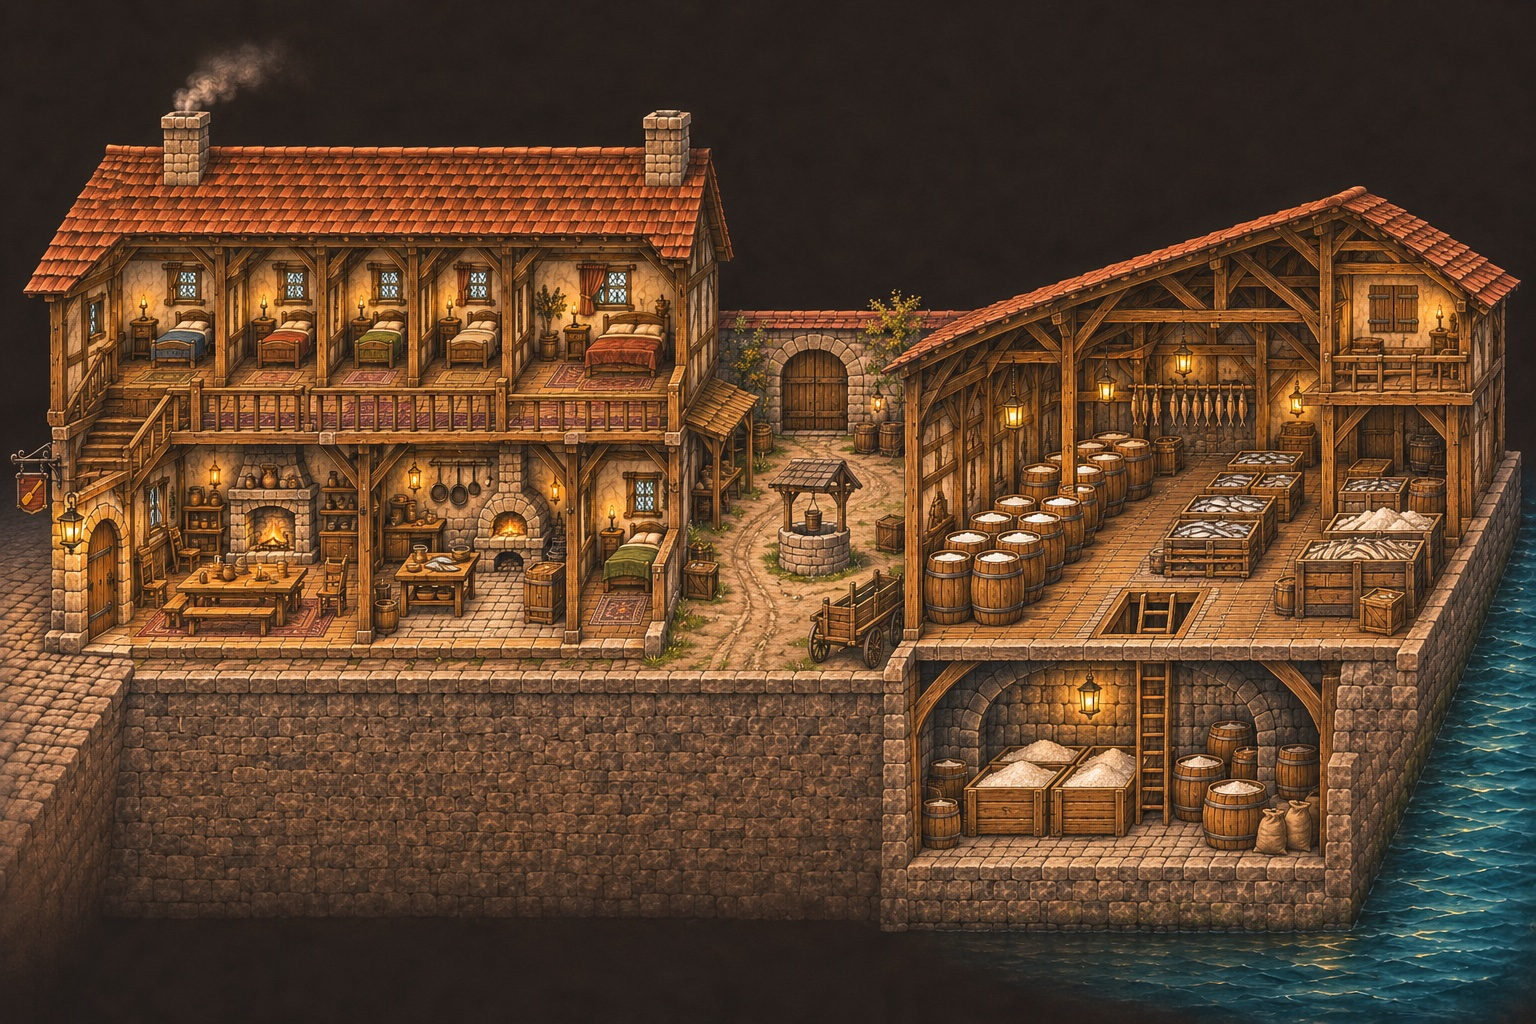
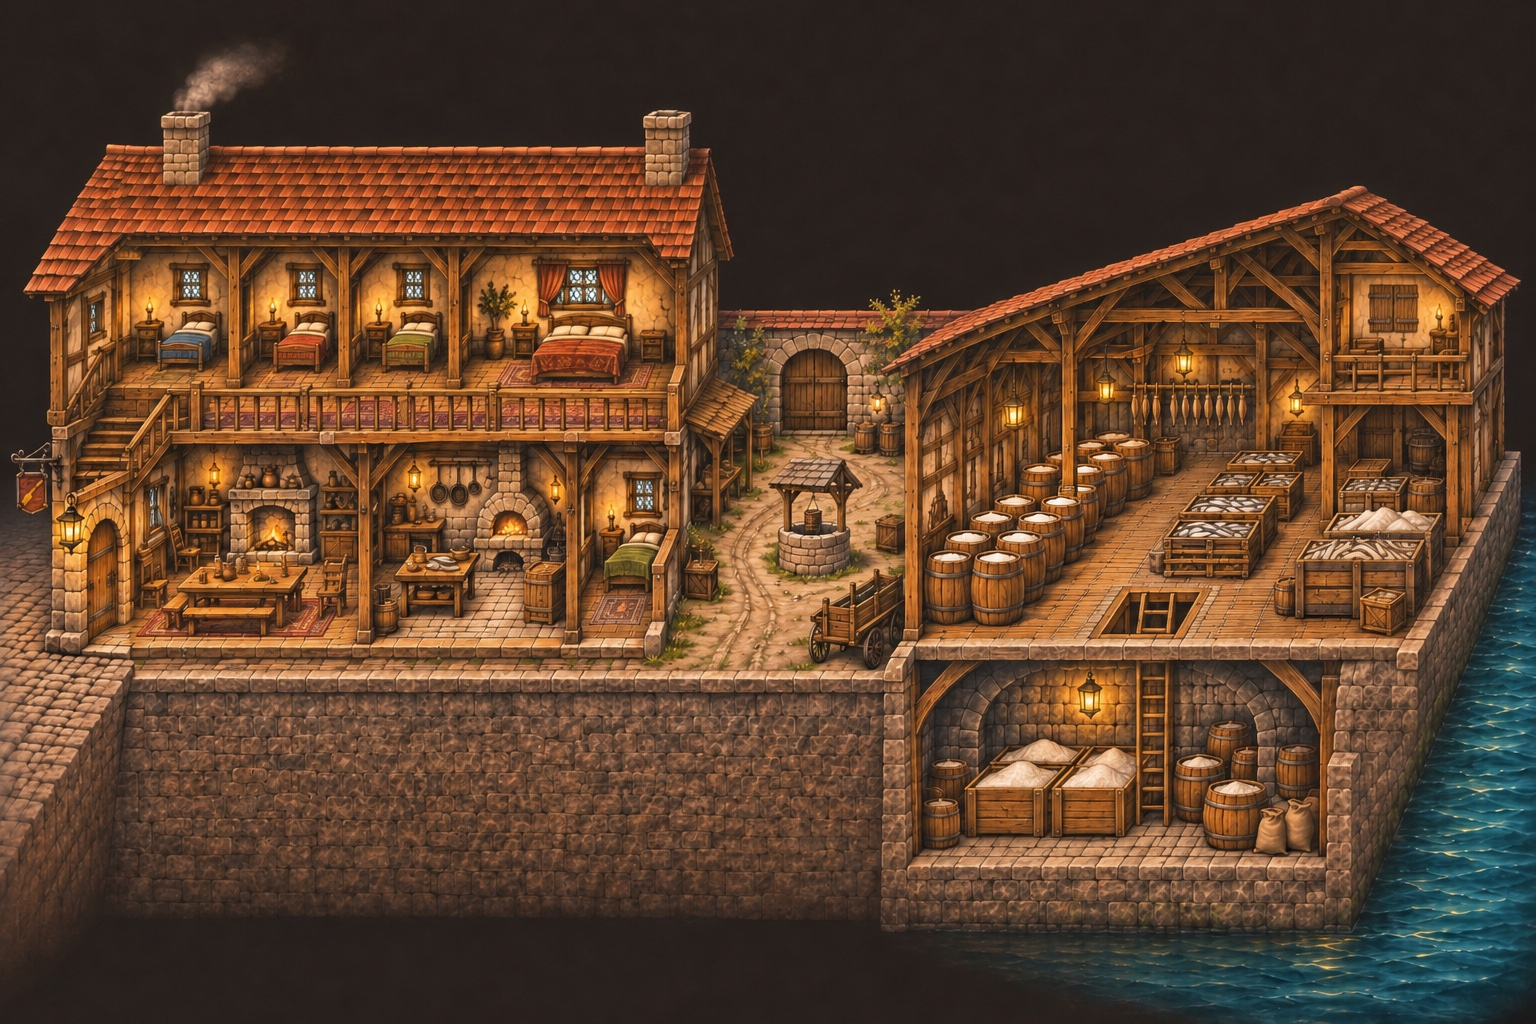
거점: 소금꽃 집 그림 다시 그림 — 2층 방 넷(오른쪽 큰 방)

Changed region(s): [[0.0, 0.0625, 1.0, 0.9688]]

diff --git a/index.html b/index.html
@@ -7498,9 +7498,9 @@ const BASE_ARTS={
     rooms:{wo_r1:[285,262],wo_r2:[498,262],wo_r3:[712,262],wo_r4:[925,262],wo_hall:[800,408],
            wo_tap:[560,600],wo_kitchen:[1215,560],wo_cellar:[560,790]},
     marks:[[190,500,"정문"],[965,540,"계단"],[930,880,"돌계단"],[1190,800,"석축 둑 벽 — 문 없음"],[60,720,"길"],[1380,950,"거울강"]]},
-  /* v2.47: 소금꽃 집 — 그림 속 2층 칸막이는 다섯이지만 방은 넷(방 3이 가운데 두 칸에 걸침). 가구 수는 장식. */
-  saltyard:{src:"./assets/base_saltyard.jpg",ok:false,vb:[0,90,1536,920],
-    rooms:{sh_r1:[185,318],sh_r2:[290,318],sh_r3:[430,318],sh_r4:[615,318],sh_hall2:[400,412],
+  /* 소금꽃 집 — 2층 방 넷(오른쪽 끝이 큰 방). 가구 수는 장식. */
+  saltyard:{src:"./assets/base_saltyard.jpg?v=2",ok:false,vb:[0,90,1536,920],
+    rooms:{sh_r1:[182,318],sh_r2:[297,318],sh_r3:[408,318],sh_r4:[580,318],sh_hall2:[400,412],
            sh_hall:[235,560],sh_kitchen:[450,560],sh_small:[625,560],sh_yard:[800,470],
            sh_store:[1180,450],sh_loft:[1395,330],sh_cellar:[1060,760]},
     marks:[[100,505,"정문"],[815,385,"마당 골목"],[1135,640,"뚜껑문"],[50,720,"길"],[1270,975,"석축 둑 벽 — 문 없음"],[1450,960,"거울강"]]},
